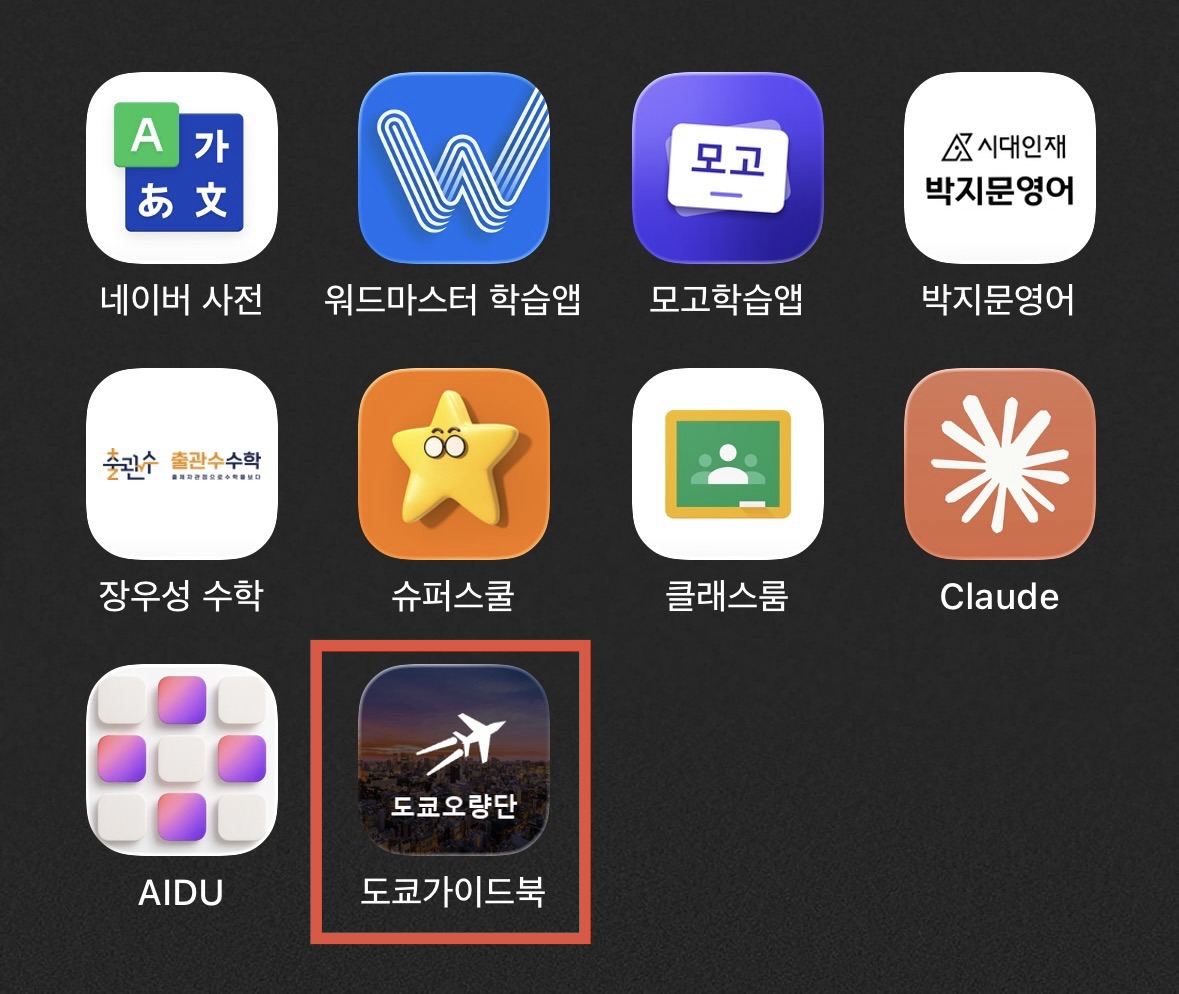
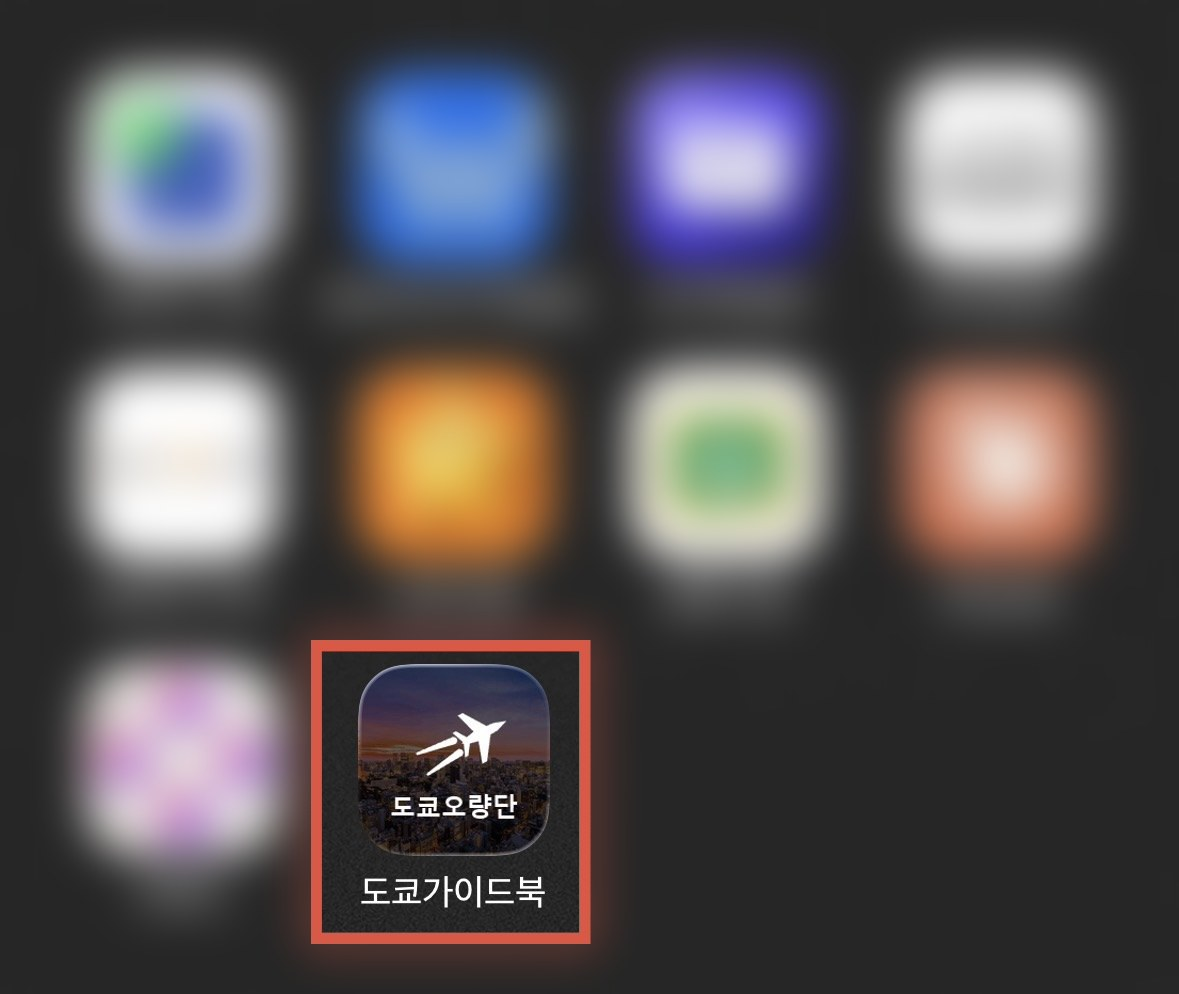
guide_5 의 빨간 테두리 바깥을 흐리게 처리
- 다른 앱 아이콘과 이름이 읽히지 않도록 가우시안 블러(반경 22) 적용
- 테두리 안쪽(도쿄가이드북 아이콘)만 원본 그대로
- 서비스 워커 캐시 v25

diff --git a/sw.js b/sw.js
@@ -5,7 +5,7 @@
  * 내용을 크게 바꿨을 땐 CACHE 버전을 올린다.
  */
 
-const CACHE = "tokyo-guide-v24";
+const CACHE = "tokyo-guide-v25";
 
 const PRECACHE = [
   "./",
